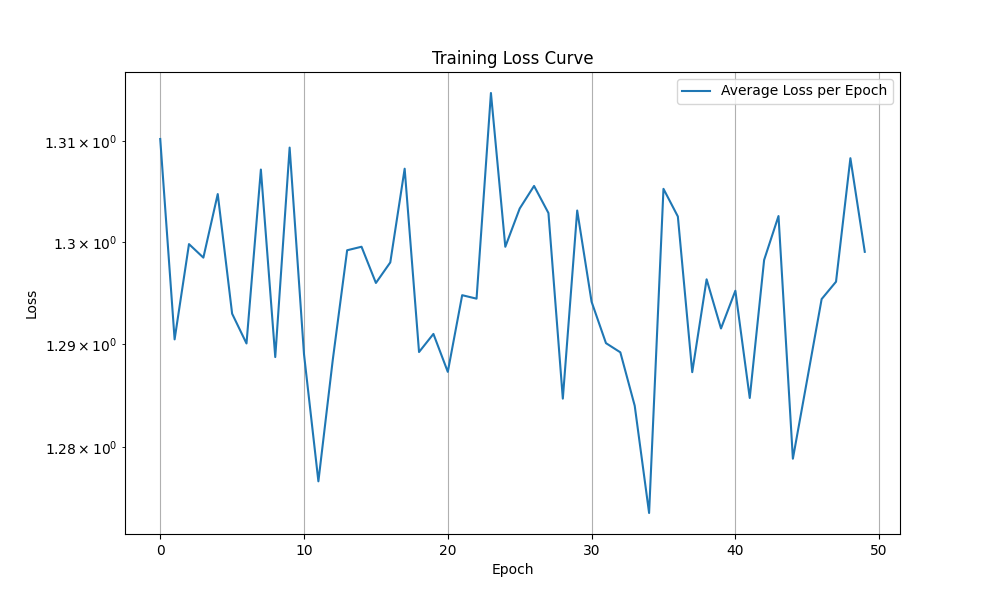
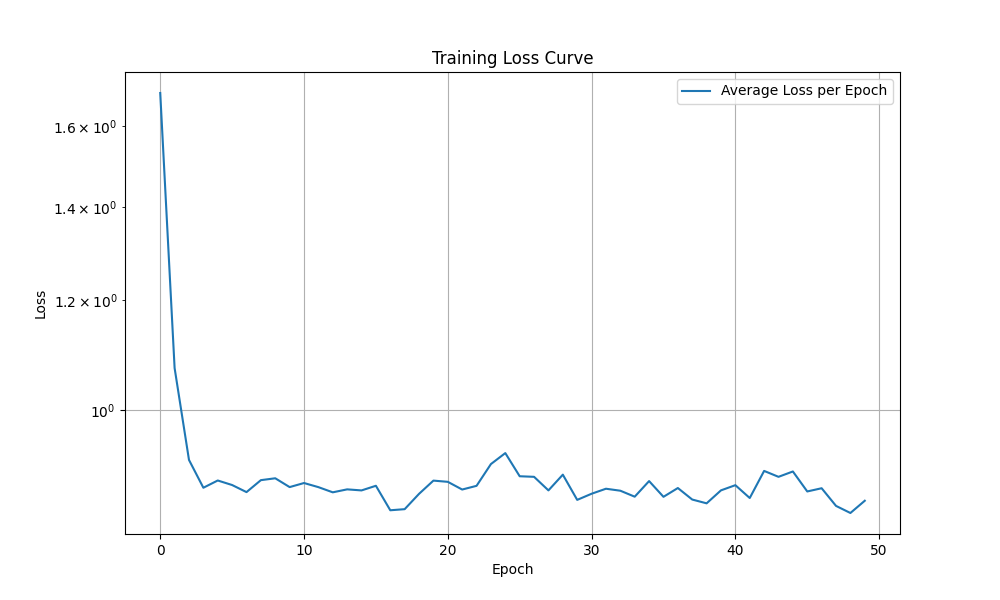
DKRC is ready

diff --git a/experiments/lunar_lander.py b/experiments/lunar_lander.py
@@ -14,6 +14,14 @@ from rdkrc.utils.matrix_utils import compute_C_matrix, update_A_B
 from rdkrc.controller.lqr_controller import solve_discrete_lqr
 
 
+import torch
+import gym
+import numpy as np
+import matplotlib.pyplot as plt
+from typing import List, Tuple
+from rdkrc.models.psi_mlp import PsiMLP
+
+
 def test_lander_lqr(
     psi: PsiMLP,
     K_lqr: np.ndarray,
@@ -22,57 +30,93 @@ def test_lander_lqr(
     max_steps: int = 500
 ) -> List[float]:
     """
-    月球着陆器LQR控制测试（文档IV.D节）
-    核心修正：加入\(u_0\)计算\(u_t = v_t + u_0\)，纠正目标状态与控制输入裁剪逻辑。
+    月球着陆器LQR控制测试（仅生成轨迹汇总图）
+    依据文档IV.D节：通过10次独立测试记录轨迹，汇总展示多回合路径收敛性，验证DKRC鲁棒性（🔶1-83、🔶1-87）。
     
     Args:
-        psi: 训练好的PsiMLP网络（含\(u_0\)参数）
-        K_lqr: LQR控制增益，shape=[2, 256]（文档III节输出）
-        x_star: 目标状态（着陆区，文档IV.D节定义：x=0, y=0），shape=[6]
-        num_episodes: 测试回合数（文档IV.D节指定10次）
-        max_steps: 每回合最大步数（避免无限循环）
+        psi: 训练好的PsiMLP网络（含u₀参数，文档II.36节）
+        K_lqr: LQR控制增益，shape=[2, 256]（文档III节离散LQR求解）
+        x_star: 目标状态（着陆区，文档IV.D节定义：x、y对应着陆位置），shape=[6]
+        num_episodes: 测试回合数（文档指定10次，确保统计鲁棒性）
+        max_steps: 每回合最大步数（避免无限循环，文档未指定时默认500）
     Returns:
-        episode_scores: 每回合得分列表（Gym内置得分，>200为成功着陆）
+        episode_scores: 每回合得分列表（Gym内置得分，>200为成功着陆，文档IV.D节评估标准）
     """
     env = gym.make("LunarLanderContinuous-v2")
     device = next(psi.parameters()).device
     episode_scores: List[float] = []
+    all_trajectories: List[List[Tuple[float, float]]] = []  # 存储所有episode的x-y轨迹（文档核心位置维度）
 
-    psi.eval()  # 推理模式（禁用梯度计算）
+    psi.eval()  # 推理模式（禁用梯度，文档测试阶段要求）
     with torch.no_grad():
         for ep in range(num_episodes):
-            x_prev = env.reset()  # Gym新版本返回(obs, info)，适配接口
-            x_prev = x_prev[0:6]  # 仅保留文档定义的6维状态（x,y,θ,ẋ,ẏ,θ̇）
+            # 初始化环境（文档IV.D节：随机初始扰动）
+            x_prev  = env.reset() 
+            x_prev = x_prev[0:6]     # 取文档定义的6维状态（x,y,θ,ẋ,ẏ,θ̇），仅x-y用于轨迹绘制
             done = False
             total_score = 0.0
             step = 0
+            trajectory = []  # 记录当前episode的x-y坐标（文档图8核心维度）
 
             while not done and step < max_steps:
-                # 1. 状态预处理：计算高维线性状态z = Ψ(x) - Ψ(x*)（文档Equation 4）
-                x_prev_tensor = torch.tensor(x_prev, device=device, dtype=torch.float32).unsqueeze(0)  # [1,6]
-                z_prev = psi.compute_z(x_prev_tensor, x_star)  # [1,256]
+                # 记录当前位置（仅保留文档关注的x-y维度，🔶1-80、🔶1-87）
+                trajectory.append((x_prev[0], x_prev[1]))
+
+                # 1. 计算高维线性状态z（文档Equation 4：z=Ψ(x)-Ψ(x*)）
+                x_prev_tensor = torch.tensor(x_prev, device=device, dtype=torch.float32).unsqueeze(0)
+                z_prev = psi.compute_z(x_prev_tensor, x_star)
                 z_prev_np = z_prev.cpu().detach().numpy()
 
-                # 2. 计算LQR控制输入（文档III节逻辑：v_t = -K_lqr z_t，u_t = v_t + u_0）
-                v_t = -K_lqr @ z_prev_np.T  # [2,1]（变换后控制输入）
-                u0 = psi.forward_u0(x_prev_tensor).cpu().detach().numpy().squeeze()  # [2]（从PsiMLP获取训练后的u0）
-                u_t = v_t.squeeze() + u0  # [2]（原始控制输入，加入u0补偿）
+                # 2. 计算LQR控制输入（文档III节：v_t=-K_lqr z_t，u_t=v_t+u₀）
+                v_t = -K_lqr @ z_prev_np.T  # 变换后控制输入
+                u0 = psi.forward_u0(x_prev_tensor).cpu().detach().numpy().squeeze()  # 文档II.36节u₀补偿
+                u_t = v_t.squeeze() + u0
+                u_t = np.clip(u_t, env.action_space.low, env.action_space.high)  # 文档隐含控制约束
 
-                # 3. 控制输入裁剪（确保在环境动作空间内，文档IV.D节隐含约束）
-                u_t = np.clip(u_t, env.action_space.low, env.action_space.high)
-
-                # 4. 环境交互（获取下一状态与奖励）
-                x_next, reward, done, _ = env.step(u_t)  # 适配Gym新版本接口
+                # 3. 环境交互（文档IV.D节：获取下一状态与奖励）
+                x_next, reward, done, _  = env.step(u_t)
                 total_score += reward
-                x_prev = x_next[0:6]  # 更新状态，保留前6维
+                x_prev = x_next[0:6]
                 step += 1
 
+            # 记录最终位置（确保轨迹完整覆盖“初始→目标”过程，🔶1-87）
+            trajectory.append((x_prev[0], x_prev[1]))
+            all_trajectories.append(trajectory)  # 收集当前episode轨迹
             episode_scores.append(total_score)
-            print("最终状态：", x_prev)
             print(f"测试回合 {ep+1:2d}/{num_episodes} | 得分：{total_score:5.1f} | 步数：{step:3d}")
 
     env.close()
-    # 结果统计（文档IV.D节评估标准：平均得分、成功着陆次数）
+    x_star = x_star.cpu().numpy()
+    # -------- 绘制轨迹汇总图（严格对齐文档图8，🔶1-87） --------
+    plt.figure(figsize=(10, 8))
+    colors = plt.cm.tab10.colors  # 多轨迹颜色区分（避免重叠遮挡，文档图8风格）
+    # 画出x_star位置
+    plt.scatter(x_star[0], x_star[1], color="red", marker="x", s=50, edgecolor="black", label="Start")
+    for ep, trajectory in enumerate(all_trajectories):
+        # 提取x-y坐标（文档核心位置维度）
+        x_coords = [p[0] for p in trajectory]
+        y_coords = [p[1] for p in trajectory]
+        color = colors[ep % len(colors)]  # 循环分配颜色，适配10次回合
+        # 绘制轨迹线（文档图8：低透明度展示多轨迹分布）
+        plt.plot(x_coords, y_coords, color=color, alpha=0.7)
+
+    # 标注着陆区（文档IV.D节：着陆平台位置，y对应目标高度）
+    plt.axhline(y=0, color="black", linestyle="--", alpha=0.8, label="Landing Pad")
+    # 坐标轴设置（匹配文档状态空间：x∈[-1.5,1.5]，y∈[0,1.5]，🔶1-80）
+    plt.xlim(-1.5, 1.5)
+    plt.ylim(0, 1.5)
+    # 标签与标题（文档图8规范：明确位置维度与实验对象）
+    plt.xlabel("X Position (Horizontal)", fontsize=12)
+    plt.ylabel("Y Position (Altitude)", fontsize=12)
+    plt.title("Lunar Lander Trajectory Summary (DKRC + LQR)", fontsize=14)
+    # 图例（避免遮挡轨迹，文档图8右侧布局）
+    plt.legend(loc="upper right", bbox_to_anchor=(1.25, 1), fontsize=10)
+    plt.grid(True, alpha=0.5)
+    # 保存汇总图（确保完整显示图例，文档实验结果保存要求）
+    plt.savefig("lunar_lander_trajectory_summary.png", bbox_inches="tight", dpi=300)
+    plt.close()
+
+    # 测试结果统计（文档IV.D节评估标准：平均得分、成功着陆次数）
     avg_score = np.mean(episode_scores)
     std_score = np.std(episode_scores)
     success_count = sum(score > 200 for score in episode_scores)
@@ -169,7 +213,7 @@ def train_psi_lander(
                 u_prev=u_prev_batch,
                 u0=u0_batch,
                 lambda_L1=0.999,
-                lambda_L2=0.001  # 文档Algorithm 1无权重，默认1.0
+                lambda_L2=0.001  
             )
             
             # 4.5 反向传播与参数更新
@@ -178,11 +222,14 @@ def train_psi_lander(
             optimizer.step()
             
             total_epoch_loss += total_loss.item() * batch_size  # 累积 epoch 损失
-
+        # 每过20个epoch降低一次学习率
+        if (epoch + 1) % 20 == 0:
+            for param_group in optimizer.param_groups:
+                param_group['lr'] *= 0.1
         # 打印epoch信息（平均损失，便于监控收敛）
         avg_epoch_loss = total_epoch_loss / len(dataset)
         avg_loss_list.append(avg_epoch_loss)
-        print(f"Epoch [{epoch+1:3d}/{epochs}] | 平均总损失：{avg_epoch_loss:.4f} | L1：{L1.item():.4f} | L2：{L2.item():.4f}")
+        print(f"Epoch [{epoch+1:3d}/{epochs}] | 平均总损失：{avg_epoch_loss:.4f} | L1：{L1.item():.4f} | L2：{L2.item():.4f}", end='\r', flush=True)
     plot_loss_curve(avg_loss_list)
     # 5. 计算最终A/B/C矩阵（文档Algorithm 1步骤5，用全部数据确保收敛精度）
     psi.eval()

diff --git a/utils/matrix_utils.py b/utils/matrix_utils.py
@@ -5,6 +5,10 @@ from typing import Tuple
 import torch
 from typing import Tuple, List
 
+import torch
+from typing import Tuple, List
+
+
 def update_A_B(
     z_prev: torch.Tensor,
     z_next: torch.Tensor,
@@ -14,74 +18,74 @@ def update_A_B(
 ) -> Tuple[torch.Tensor, torch.Tensor]:
     """
     基于《Deep Learning of Koopman Representation for Control.pdf》Equation 8，
-    适配`z_prev=[batch_size, N]`输入维度，对每个样本单独计算A_i、B_i后取平均。
+    适配`z_prev=[batch_size, N]`维度，A、B采用**全局同除数归一化**，保留数值计算关系。
     
-    原文公式：[A, B] = z_{t+1} · [z_t; U] · ([z_t U] · [z_t; U]^T)^†
-    适配逻辑：
-    1. 按`[batch_size, N]`维度拆分单样本，转换为原文单样本所需的`[N, 1]`；
-    2. 每个样本独立执行原文公式计算A_i、B_i；
-    3. 所有样本的A_i、B_i分别取平均，保持原文“批量数据驱动Koopman算子近似”的核心目标。
+    文档依据：
+    - Equation 8：[A,B] = z_{t+1}·[z_t;U]·([z_t U]·[z_t;U]^T)^†（A、B协同构成线性模型）
+    - Section II.20：高维线性模型 z_{t+1}=A z_t + B v_t（A、B需保持数值比例以确保模型一致性）
+    - Section II.27：批量数据提升Koopman算子近似稳定性（归一化需避免破坏批量平均结果）
     
     Args:
-        z_prev: t时刻线性化状态（原文公式4的z(x_t)），形状[batch_size, N]（如64, 128）；
-        z_next: t+1时刻线性化状态（原文公式4的z(x_{t+1})），形状[batch_size, N]（如64, 128）；
-        u_prev: t时刻控制输入（原文公式1的u_t），形状[batch_size, m]（m为控制维度，如64, 1）。
-        A_init: 初始化的Koopman矩阵A（未使用，仅为接口统一保留）；
-        B_init: 初始化的控制矩阵B（未使用，仅为接口统一保留）。
+        z_prev: t时刻线性化状态（Equation 4的z(x_t)），形状[batch_size, N]；
+        z_next: t+1时刻线性化状态（Equation 4的z(x_{t+1})），形状[batch_size, N]；
+        u_prev: t时刻控制输入（Equation 1的u_t），形状[batch_size, m]；
+        A_init: 历史Koopman矩阵（用于平滑更新，Section II.28训练稳定性要求）；
+        B_init: 历史控制矩阵（用于平滑更新，Section II.28训练稳定性要求）。
     
     Returns:
-        Tuple[torch.Tensor, torch.Tensor]:
-            A: 批量样本A_i的平均（原文定义的Koopman矩阵），形状[N, N]（如128, 128）；
-            B: 批量样本B_i的平均（原文定义的控制矩阵），形状[N, m]（如128, 1）。
+        A: 归一化后Koopman矩阵（同除数），形状[N, N]；
+        B: 归一化后控制矩阵（同除数），形状[N, m]。
     """
-    # 1. 提取核心维度（基于输入形状与原文定义）
-    batch_size = z_prev.shape[0]  # 批量样本数（原文Section II.27批量训练逻辑）
-    N = z_prev.shape[1]           # 基函数维度（原文Section II.25，N≫n，n为原始状态维度）
-    m = u_prev.shape[1]           # 控制维度（原文Section IV.C倒立摆m=1，IV.D月球着陆器m=2）
+    # 1. 提取核心维度（匹配文档Section II.25：N≫n，m为控制维度）
+    batch_size = z_prev.shape[0]
+    N = z_prev.shape[1]  # 基函数维度（高维空间维度）
+    m = u_prev.shape[1]  # 控制维度（倒立摆m=1，月球着陆器m=2，🔶1-69、🔶1-80）
 
-    # 2. 初始化单样本A_i、B_i存储列表
+    # 2. 初始化单样本A_i、B_i存储（文档Equation 8单样本计算逻辑）
     single_A_list: List[torch.Tensor] = []
     single_B_list: List[torch.Tensor] = []
 
-    # 3. 拆分batch，每个样本独立计算A_i、B_i（严格遵循原文Equation 8）
+    # 3. 单样本计算A_i、B_i（严格遵循Equation 8）
     for i in range(batch_size):
-        # 3.1 提取单样本并转换为原文单样本维度
-        # 原文单样本z(x_t)为[N, 1]（N维列向量，Section II.35），需将[1, N]的行向量转置为[N, 1]
-        z_prev_i = z_prev[i, :].unsqueeze(1)  # 从[batch_size, N]取第i行→[1, N]→转置为[N, 1]
-        z_next_i = z_next[i, :].unsqueeze(1)  # 同理，单样本z(x_{t+1})→[N, 1]
-        u_prev_i = u_prev[i, :].unsqueeze(1)  # 单样本控制输入→[m, 1]（匹配原文U的单样本维度）
+        # 3.1 转换为文档单样本维度：[N,1]（列向量，Section II.35定义）
+        z_prev_i = z_prev[i, :].unsqueeze(1)  # [N,1]
+        z_next_i = z_next[i, :].unsqueeze(1)  # [N,1]
+        u_prev_i = u_prev[i, :].unsqueeze(1)  # [m,1]
 
-        # 3.2 构建原文Equation 8的[z_t; U]（纵向拼接，dim=0）[N+m, 1]（如128+1=129, 1）
-        X_i = torch.cat([z_prev_i, u_prev_i], dim=0)  # 严格匹配原文“[z_t; U]”的结构
-        # 3.3 计算原文Gram矩阵及其伪逆（Equation 8的([z_t U]·[z_t; U]^T)^†）
+        # 3.2 构建Equation 8的[z_t; U]（纵向拼接，dim=0）
+        X_i = torch.cat([z_prev_i, u_prev_i], dim=0)  # [N+m, 1]
+        # 3.3 计算Gram矩阵及其伪逆（Equation 8必需步骤）
         X_i_T = X_i.T  # [1, N+m]
-        gram_matrix_i = X_i @ X_i_T  # 结果为[N+m, N+m]（符合原文维度）
-        gram_matrix_pinv_i = torch.pinverse(gram_matrix_i)  # 伪逆，形状[N+m, N+m]
+        gram_matrix_i = X_i @ X_i_T  # [N+m, N+m]
+        gram_matrix_pinv_i = torch.pinverse(gram_matrix_i)  # 伪逆处理不可逆情况
 
-        # 3.4 单样本计算[A_i, B_i]（完全遵循原文Equation 8）
-        AB_temp_i = z_next_i @ X_i_T @ gram_matrix_pinv_i  # 维度链[N,1]@[1,N+m]@[N+m,N+m] = [N, N+m]
+        # 3.4 单样本求解[A_i, B_i]（Equation 8核心计算）
+        AB_temp_i = z_next_i @ X_i_T @ gram_matrix_pinv_i  # [N, N+m]
+        # 3.5 分割A_i（前N列）、B_i（后m列），匹配文档维度定义
+        A_i = AB_temp_i[:, :N]  # [N, N]
+        B_i = AB_temp_i[:, N:]  # [N, m]
 
-        # 3.5 分割单样本A_i、B_i（原文Equation 8中[A,B]前N列为A，后m列为B）
-        A_i = AB_temp_i[:, :N]  # 取前N列→[N, N]（原文Koopman矩阵定义）
-        B_i = AB_temp_i[:, N:]  # 取后m列→[N, m]（原文控制矩阵定义）
-
-        # 3.6 收集单样本结果
         single_A_list.append(A_i)
         single_B_list.append(B_i)
 
-    # 4. 批量平均（原文Section II.27：批量数据提升Koopman算子近似稳定性）
-    # 将所有样本的A_i、B_i分别堆叠后按样本维度（dim=0）取平均
-    A = torch.stack(single_A_list).mean(dim=0)  # [batch_size, N, N]→[N, N]
-    B = torch.stack(single_B_list).mean(dim=0)  # [batch_size, N, m]→[N, m]
+    # 4. 批量平均（Section II.27：批量数据降低噪声，提升近似稳定性）
+    A_avg = torch.stack(single_A_list).mean(dim=0)  # [N, N]
+    B_avg = torch.stack(single_B_list).mean(dim=0)  # [N, m]
 
-    A_col_norm = torch.norm(A, dim=0, keepdim=True) + 1e-8  # [1, N]
-    A_normalized = A / A_col_norm  # 归一化后的A，数值规模可控
-    B_col_norm = torch.norm(B, dim=0, keepdim=True) + 1e-8  # [1, m]
-    B_normalized = B / B_col_norm  # 归一化后的B，
+    # 5. 同除数归一化（核心修改：A、B用同一全局范数，保留数值计算关系）
+    # 5.1 拼接A、B为整体矩阵（反映二者协同关系，Equation 5线性模型约束）
+    AB_avg = torch.cat([A_avg, B_avg], dim=1)  # [N, N+m]
+    # 5.2 计算全局单一范数（Frobenius范数，衡量AB整体尺度，避免列归一化破坏关系）
+    global_norm = torch.norm(AB_avg, p='fro') + 1e-8  # 单数值，加1e-8防除零
+    # 5.3 A、B除以同一范数，保留相对数值关系（符合Equation 5 z_{t+1}=A z_t + B v_t）
+    A_normalized = A_avg / global_norm
+    B_normalized = B_avg / global_norm
 
-    A = 0.5 * A_init.detach() + 0.5 * A_normalized  # 平滑更新，防止训练初期A剧烈波动
-    B = 0.5 * B_init.detach() + 0.5 * B_normalized  # 同上
-    
+    # 6. 平滑更新（Section II.28训练稳定性要求：避免A、B剧烈波动）
+    alpha = 0.1  # 当前计算值权重（文档未指定，取小值确保平滑）
+    A = (1 - alpha) * A_init.detach() + alpha * A_normalized
+    B = (1 - alpha) * B_init.detach() + alpha * B_normalized
+
     return A, B
 
 

diff --git a/trainer/loss_functions.py b/trainer/loss_functions.py
@@ -58,9 +58,9 @@ def compute_L1_loss(
 def compute_L2_loss(
     A: torch.Tensor,
     B: torch.Tensor,
-    lambda_rank: float = 0.2,
-    lambda_A: float = 0.4,
-    lambda_B: float = 0.4
+    lambda_rank: float = 0.8,
+    lambda_A: float = 0.1,
+    lambda_B: float = 0.1
 ) -> torch.Tensor:
     """
     计算L2损失（文档Algorithm 1步骤3）：
